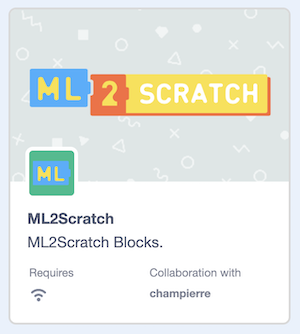
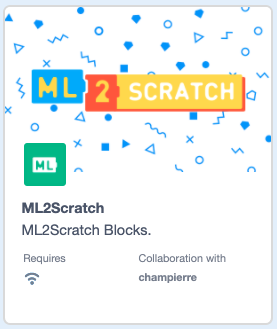
Update ml2scratch images.

diff --git a/README.zh-cn.md b/README.zh-cn.md
@@ -21,7 +21,7 @@
 
 ### Learn/Classify Scratch webcam images
 
-  <img src="images/en/ml2scratch.gif" width="600" />
+  <img src="images/zh-cn/ml2scratch.gif" width="600" />
 
 #### Other samples
 
